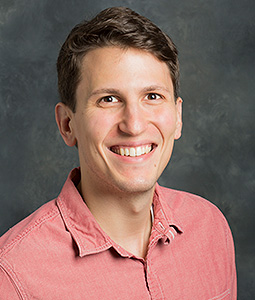
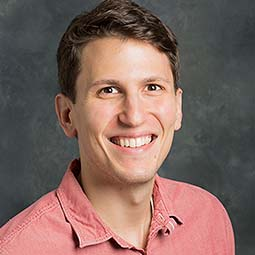
updated photo shape, added social media meta tags, fixed other markup

diff --git a/test.html b/test.html
@@ -9,6 +9,16 @@
   <meta name="keywords" content="webdesign, web development, UX, UI, HTML, CSS, Responsive Web Design">
   <meta name="robots" content="index, follow">
   <meta name="viewport" content="width=device-width, initial-scale=1, shrink-to-fit=no">
+  
+  <meta property="og:site_name" content="Peter Schmolze">
+  <meta property="og:title" content="Peter Schmolze Portfolio">
+  <meta property="og:description" content="I'm a Columbia, SC based front-end/UI developer focused on creating user-friendly interactive mobile-first websites that will drive user engagement.">
+  <meta property="og:url" content="https://www.peterschmolze.com">
+  <meta property="og:type" content="website">
+  <meta name="twitter:card" content="summary">
+  <meta name="twitter:player" content="https://www.youtube.com/embed/Kauv7MVPcsA">
+  <meta property="og:image" content="http://www.sc.edu/uofsc/images/banner_images/2017/banner_breakthrough_170213_christina_andrews_013.jpg">
+  <meta name="twitter:site" content="@schmolzp">
 
   <link rel="stylesheet" href="css/style.css">
   <link href="https://fonts.googleapis.com/css?family=Montserrat:400,600,700" rel="stylesheet">
@@ -20,12 +30,12 @@
   <!--[if lte IE 9]>
     <p class="browserupgrade">You are using an <strong>outdated</strong> browser. Please <a href="https://browsehappy.com/">upgrade your browser</a> to improve your experience and security.</p>
   <![endif]-->
-  <a href="#main-content" class="hide-from-screen-reader">Skip to Main Content</a>
+  <a href="#main-content" class="hide-for-screen-reader">Skip to Main Content</a>
 
   <header>
     <button class="hamburger hamburger--collapse" type="button">
             <span class="hamburger-box">
-                <span class="hamburger-inner"></span>
+                <span class="hamburger-inner hide-for-screen-reader">Open main navigation</span>
             </span>
         </button>
         <a href="#top" class="logo">
@@ -67,7 +77,7 @@
                 <!-- <h2 class="section__header">About Me</h2> -->
                 <div class="about">
                     <div class="about__text">
-                        <p>Since graduating with a B.A. in Media Arts from the University of South Carolina (UofSC) in 2009, I have harnessed a passion for front-end web technologies. I am currently working as a front-end/UI developer at UofSC, where my interest in development and design merged. Making elements come to life from a designer's mockup by translating it into CSS, user interaction and animation is why I have so much enthusiasm for what I do. Being primarily self-taught, I am driven, inherently curious, constantly learning, and thrive off of collaboration to make the final product stand out. Outside of work, you will find me listening to records with my lovely wife (Mollie), making my one-year-old son (Oscar) laugh, going on walks with our dog (Maggie) and trying not to get in our cat's (Mr. Phoebe) way. </p>
+                        <p>Since graduating with a B.A. in Media Arts from the University of South Carolina (UofSC) in 2009, I have harnessed a passion for front-end web technologies. I am currently working as a front-end/UI developer at UofSC, where my interest in development and design merged. Making a website come to life from a designer's mockup by translating it into CSS, user interaction, and animation is why I have so much enthusiasm for what I do. Being primarily self-taught, I am driven, inherently curious, constantly learning, and thrive off of collaboration to make the final product stand out. Outside of work, you will find me listening to records with my lovely wife (Mollie), making my one-year-old son (Oscar) laugh, going on walks with our dog (Maggie) and trying not to get in our cat's (Mr. Phoebe) way. </p>
                         <a href="peter_schmolze_resume.pdf" class="btn mod-resume" download>Resume
                             <div class="btn__icon" data-aos="fade-down" data-aos-duration="500" data-aos-offset="50" data-aos-once="false">
                                 <svg xmlns="http://www.w3.org/2000/svg" viewBox="0 0 24 24"><g data-name="Layer 2"><g data-name="download"><rect width="24" height="24" opacity="0"/><rect x="4" y="18" width="16" height="2" rx="1" ry="1"/><rect x="3" y="17" width="4" height="2" rx="1" ry="1" transform="rotate(-90 5 18)"/><rect x="17" y="17" width="4" height="2" rx="1" ry="1" transform="rotate(-90 19 18)"/><path d="M12 15a1 1 0 0 1-.58-.18l-4-2.82a1 1 0 0 1-.24-1.39 1 1 0 0 1 1.4-.24L12 12.76l3.4-2.56a1 1 0 0 1 1.2 1.6l-4 3a1 1 0 0 1-.6.2z"/><path d="M12 13a1 1 0 0 1-1-1V4a1 1 0 0 1 2 0v8a1 1 0 0 1-1 1z"/></g></g></svg>
@@ -75,7 +85,7 @@
                         </a>
                     </div>
                     <div class="about__img">
-                        <img src="img/schmolze_peter_16small.jpg" alt="">
+                        <img src="img/schmolze_peter_16small.jpg" alt="Peter Schmolze smiling">
                     </div>
             </div>
             </div>
@@ -109,11 +119,11 @@
                 </figure>
                 <div class="project__text">
                     <div class="project__desc">
-                        <h4>Project</h4>
+                        <h3>Project</h3>
                         <p>Prior to this project, the University of South Carolina had exhibited a non-responsive and bland website with poor navigation. This was a complete redesign and redevelopment of the University of South Carolina's web presence. Our main goal was to reorganize the site structure to align with our primary audience, prospective students. We also wanted to give it a more modern look along with a responsive design to make it user-friendly on mobile devices. Our team was also responsible for transitioning into a new content management system by creating several new page templates. </p>
                     </div>
                     <div class="project__role">
-                        <h4>My Role</h4>
+                        <h3>My Role</h3>
                         <p>Being the sole front-end/UI developer, my role was to build all new page templates by working closely with our UI/UX designer. At the time, we used the grid framework <a href="https://foundation.zurb.com/" target="_blank">Foundation</a> to lay out the site. I then used a modular approach to create components that can be reused throughout the site in different combinations. This allowed for more flexibility as needs for different page structures were constantly changing and being added. I also worked closely with our back-end developers and third-party vendors to implement the University's site search, calendar, and map.</p>
                     </div>
                 </div>
@@ -141,11 +151,11 @@
                 </figure>
                 <div class="project__text">
                     <div class="project__desc">
-                        <h4>Project</h4>
+                        <h3>Project</h3>
                         <p>This was our first ever immersive interactive homepage that we did after the launch of the new sc.edu. We would do something like this every couple months to capture what it would be like to be a student on campus. We wanted to create levels of interactive for these types of homepages. The user could just look at it and get the message or they could dive deeper and scroll to get a fuller experience. </p>
                     </div>
                     <div class="project__role">
-                        <h4>My Role</h4>
+                        <h3>My Role</h3>
                         <p>As the sole developer, I built this using a scrolling parallax library that would give me more control over the various layers that needed to animate while scrolling. This was incredibly fun and challenging to work on as I had not done something like this before. The biggest challenge would have to be the performance to make sure there would be as minimal animation stuttering as possible to keep up with the refresh rate. Since there was such a concern for performance, this is <b>best viewed on a tablet in landscape mode and desktops</b> to get the full experience.</p>
                     </div>
                 </div>
@@ -160,16 +170,16 @@
                 <img src="img/polar_explorer_macbook.jpg" alt="Screenshot of the website" class="project__img" data-aos="fade-right" data-aos-anchor="#project3-anchor" data-aos-anchor-placement="bottom-center" data-aos-easing="ease-out-quart" data-aos-duration="750">
                 <div class="project__text">
                     <div class="project__desc">
-                        <h4>Project</h4>
+                        <h3>Project</h3>
                         <p>This was the first of many online news stories where we abandoned the traditional news story template to create an engrossing experience for the reader. This particular story was about a faculty member's trip to Antarctica. While she was there she was able to capture her research with some outstanding video and photography. </p>
                     </div>
                     <div class="project__role">
-                        <h4>My Role</h4>
+                        <h3>My Role</h3>
                         <p>I collaborated and worked alongside our sole designer to make sure that her vision for the story was seen through. I built an entirely new template that would take advantage of a full-width design that accompanied auto-playing (no audio) background videos. </p>
                     </div>
                 </div>
             </div>
-            <a href="https://sc.edu/uofsc/posts/2017/07/polar_explorer.php" class="project__btn btn" target="_blank" data-aos="zoom-in" data-aos-offset="100">See it Online
+            <a href="https://sc.edu/uofsc/posts/2017/07/polar_explorer.php" class="project__btn btn" target="_blank" rel="noopener noreferrer" data-aos="zoom-in" data-aos-offset="100">See it Online
                 <svg xmlns="http://www.w3.org/2000/svg" viewBox="0 0 24 24"><g data-name="Layer 2"><g data-name="arrow-forward"><rect width="24" height="24" transform="rotate(-90 12 12)" opacity="0"/><path d="M5 13h11.86l-3.63 4.36a1 1 0 0 0 1.54 1.28l5-6a1.19 1.19 0 0 0 .09-.15c0-.05.05-.08.07-.13A1 1 0 0 0 20 12a1 1 0 0 0-.07-.36c0-.05-.05-.08-.07-.13a1.19 1.19 0 0 0-.09-.15l-5-6A1 1 0 0 0 14 5a1 1 0 0 0-.64.23 1 1 0 0 0-.13 1.41L16.86 11H5a1 1 0 0 0 0 2z"/></g></g></svg>
             </a>
         </div>
@@ -179,16 +189,16 @@
                 <img src="img/time_flies_screenshot_macbookpro15_front.jpg" alt="Screenshot of the website" class="project__img" data-aos="fade-left" data-aos-anchor="#project4-anchor" data-aos-anchor-placement="bottom-center" data-aos-easing="ease-out-quart" data-aos-duration="750">
                 <div class="project__text">
                     <div class="project__desc">
-                        <h4>Project</h4>
+                        <h3>Project</h3>
                         <p>For every May commencement, the University of South Carolina would align the homepage with an experimental and creative interactive experience that would highlight the last four years. That year, the idea was to give the user the feeling of time flying by having polaroid photos being dropped on the screen faster and faster. Once again, this homepage worked on multiple levels. If the user only looked at the page they got the overall message. The user could then click on the button that would trigger all the photos flying in. Once completed, the user could then drag all the photos around the page to see every photo if they wanted.</p>
                     </div>
                     <div class="project__role">
-                        <h4>My Role</h4>
-                        <p>Being the sole developer on the team, my task was to build out this concept while also making sure the idea met our deliberate intention and to give insight on what was feasible. Since I had just come back from a conference where I had learned more in-depth about the <a href="https://greensock.com/" target="_blank">Greensock Animation Platform (GSAP)</a>, I decided to go with that as my tool to build out the photo animations. The results were met with excellent feedback since it not only appealed to our main audience, prospective students by showing what it would be like to be on campus, but alumni and current students as well.</p>
+                        <h3>My Role</h3>
+                        <p>Being the sole developer on the team, my task was to build out this concept while also making sure the idea met our deliberate intention and to give insight on what was feasible. Since I had just come back from a conference where I had learned more in-depth about the <a href="https://greensock.com/" target="_blank" rel="noopener noreferrer">Greensock Animation Platform (GSAP)</a>, I decided to go with that as my tool to build out the photo animations. The results were met with excellent feedback since it not only appealed to our main audience, prospective students by showing what it would be like to be on campus, but alumni and current students as well.</p>
                     </div>
                 </div>
             </div>  
-            <a href="https://sc.edu/homepage/2016_graduation/" class="project__btn btn" target="_blank" data-aos="zoom-in" data-aos-offset="100">See it Online
+            <a href="https://sc.edu/homepage/2016_graduation/" class="project__btn btn" target="_blank" rel="noopener noreferrer" data-aos="zoom-in" data-aos-offset="100">See it Online
                 <svg xmlns="http://www.w3.org/2000/svg" viewBox="0 0 24 24"><g data-name="Layer 2"><g data-name="arrow-forward"><rect width="24" height="24" transform="rotate(-90 12 12)" opacity="0"/><path d="M5 13h11.86l-3.63 4.36a1 1 0 0 0 1.54 1.28l5-6a1.19 1.19 0 0 0 .09-.15c0-.05.05-.08.07-.13A1 1 0 0 0 20 12a1 1 0 0 0-.07-.36c0-.05-.05-.08-.07-.13a1.19 1.19 0 0 0-.09-.15l-5-6A1 1 0 0 0 14 5a1 1 0 0 0-.64.23 1 1 0 0 0-.13 1.41L16.86 11H5a1 1 0 0 0 0 2z"/></g></g></svg>
             </a>
         </div>
@@ -198,12 +208,12 @@
                 <img src="img/10years_screenshot_macbookpro15_front.jpg" alt="Screenshot of the website" class="project__img" data-aos="fade-right" data-aos-anchor="#project5-anchor" data-aos-anchor-placement="bottom-center" data-aos-easing="ease-out-quart" data-aos-duration="750">
                 <div class="project__text">
                     <div class="project__desc">
-                        <h4>Project</h4>
+                        <h3>Project</h3>
                         <p>To coincide with the University of South Carolina's President's 10 year anniversary, our team was tasked with creating an online representation of an infographic that was designed in-house. It needed to showcase all of the President's milestones throughout his tenure along with being an interactive experience for the user. </p>
                     </div>
                     <div class="project__role">
-                        <h4>My Role</h4>
-                        <p>Once again, I reached for <a href="https://greensock.com/" target="_blank">GSAP</a> since we were wanting to animate the SVG illustrations on hover. I almost always reach for GSAP when it comes to timeline or SVG animation. It is so easy to work with and has a huge emphasis on performance. I worked very closely with the print designer who illustrated the infographic to come up with animations that would draw the user into clicking on each milestone. Since there was going to be additional content for each milestone, I decided to go with placing it in a lightbox/modal that would allow for larger amounts of text.</p>
+                        <h3>My Role</h3>
+                        <p>Once again, I reached for <a href="https://greensock.com/" target="_blank" rel="noopener noreferrer">GSAP</a> since we were wanting to animate the SVG illustrations on hover. I almost always reach for GSAP when it comes to timeline or SVG animation. It is so easy to work with and has a huge emphasis on performance. I worked very closely with the print designer who illustrated the infographic to come up with animations that would draw the user into clicking on each milestone. Since there was going to be additional content for each milestone, I decided to go with placing it in a lightbox/modal that would allow for larger amounts of text.</p>
                     </div>
                 </div>
             </div>
@@ -218,17 +228,17 @@
       <h2 class="section__header">Wanna get in touch?</h2>
       <ul class="contact-list">
         <li>
-            <a href="mailto:schmolzp@gmail.com" class="contact-list__link">
+            <a href="mailto:schmolzp@gmail.com" class="contact-list__link" rel="noopener noreferrer">
                 <svg xmlns="http://www.w3.org/2000/svg" fill="#00347F" viewBox="0 0 24 24"><title>Email</title><g data-name="Layer 2"><g data-name="email"><rect width="24" height="24" opacity="0"/><path d="M19 4H5a3 3 0 0 0-3 3v10a3 3 0 0 0 3 3h14a3 3 0 0 0 3-3V7a3 3 0 0 0-3-3zm0 2l-6.5 4.47a1 1 0 0 1-1 0L5 6z"/></g></g></svg>
              </a>
         </li>
         <li>
-            <a href="https://twitter.com/schmolzp" target="_blank" class="contact-list__link">
+            <a href="https://twitter.com/schmolzp" target="_blank" class="contact-list__link" rel="noopener noreferrer">
                 <svg xmlns="http://www.w3.org/2000/svg" viewBox="0 0 24 24" fill="#00347F"><title>Twitter</title><g data-name="Layer 2"><g data-name="twitter"><polyline points="0 0 24 0 24 24 0 24" opacity="0"/><path d="M8.08 20A11.07 11.07 0 0 0 19.52 9 8.09 8.09 0 0 0 21 6.16a.44.44 0 0 0-.62-.51 1.88 1.88 0 0 1-2.16-.38 3.89 3.89 0 0 0-5.58-.17A4.13 4.13 0 0 0 11.49 9C8.14 9.2 5.84 7.61 4 5.43a.43.43 0 0 0-.75.24 9.68 9.68 0 0 0 4.6 10.05A6.73 6.73 0 0 1 3.38 18a.45.45 0 0 0-.14.84A11 11 0 0 0 8.08 20"/></g></g></svg>
             </a>
         </li>
         <li>
-            <a href="https://www.linkedin.com/in/peter-schmolze/" target="_blank" class="contact-list__link">
+            <a href="https://www.linkedin.com/in/peter-schmolze/" target="_blank" class="contact-list__link" rel="noopener noreferrer">
                 <svg xmlns="http://www.w3.org/2000/svg" viewBox="0 0 24 24" fill="#00347F"><title>Linked In</title><g data-name="Layer 2"><g data-name="linkedin"><rect width="24" height="24" transform="rotate(180 12 12)" opacity="0"/><path d="M15.15 8.4a5.83 5.83 0 0 0-5.85 5.82v5.88a.9.9 0 0 0 .9.9h2.1a.9.9 0 0 0 .9-.9v-5.88a1.94 1.94 0 0 1 2.15-1.93 2 2 0 0 1 1.75 2v5.81a.9.9 0 0 0 .9.9h2.1a.9.9 0 0 0 .9-.9v-5.88a5.83 5.83 0 0 0-5.85-5.82z"/><rect x="3" y="9.3" width="4.5" height="11.7" rx=".9" ry=".9"/><circle cx="5.25" cy="5.25" r="2.25"/></g></g></svg>
             </a>
         </li>

diff --git a/css/style.css b/css/style.css
@@ -515,7 +515,7 @@ nav ul {
   padding: 0;
   list-style: none; }
 
-.hide-from-screen-reader {
+.hide-for-screen-reader {
   border: 0;
   clip: rect(1px, 1px, 1px, 1px);
   height: 1px;
@@ -1018,7 +1018,8 @@ nav ul {
     align-self: flex-start;
     margin: 0 auto 1em; }
     .about__img img {
-      border-radius: 50%; }
+      -webkit-clip-path: polygon(50% 0%, 100% 25%, 100% 75%, 50% 100%, 0% 75%, 0% 25%);
+      clip-path: polygon(50% 0%, 100% 25%, 100% 75%, 50% 100%, 0% 75%, 0% 25%); }
   @media only screen and (min-width: 48em) {
     .about {
       -webkit-box-orient: horizontal;
@@ -1143,7 +1144,7 @@ nav ul {
         background-color: #e8e8e8;
         -webkit-transform: translateX(-50%);
         transform: translateX(-50%); } }
-  .project__text h4 {
+  .project__text h3 {
     margin-bottom: 1em;
     text-transform: uppercase;
     color: #00347F;
